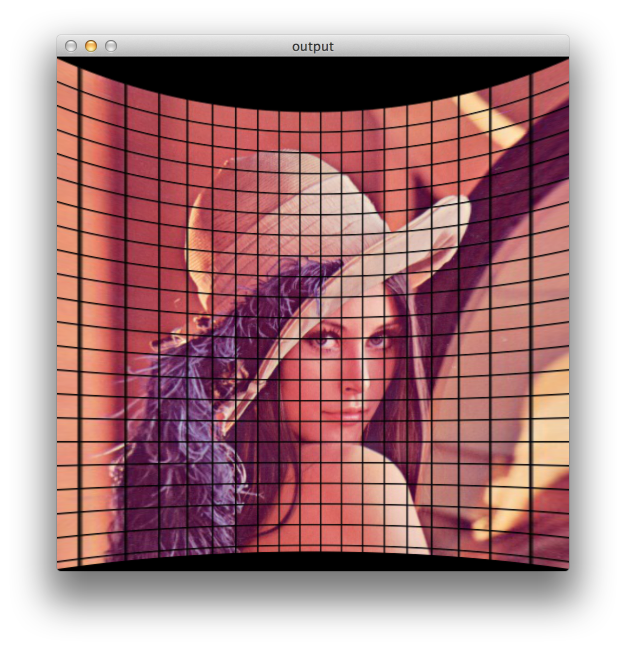
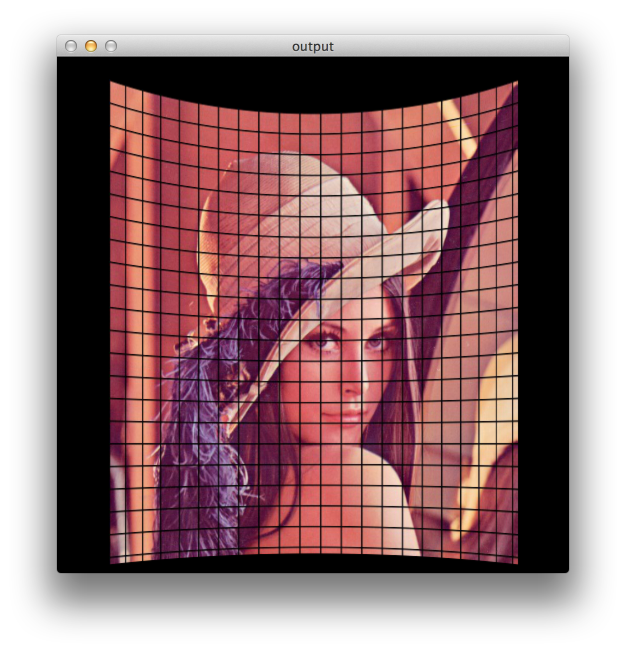
fix projection bug

diff --git a/warp.cpp b/warp.cpp
@@ -112,7 +112,9 @@ void project_cylinder(cv::Mat& dst, cv::Mat& src)
         // X-axis (columns)
         const float zb = r * (cos((half_width - (float)i) / r) - zfr);
         const float z_ratio = (zb + zf) / zf;
-        const float i_src = xf + z_ratio * r * sin(((float)i - half_width) / r);
+
+        const float i_src = r * asin(((float)i - xf) * z_ratio / r) + half_width;
+        //const float i_src = xf + z_ratio * r * sin(((float)i - half_width) / r);
         for (int j = 0; j < height; j++)
         {
             // Y-axis (rows)
@@ -131,7 +133,7 @@ int main() {
     src.convertTo(src, CV_8UC3); // convert to BGR
 
     // fix jaggies on the bottom by adding a 2-px black border
-    cv::copyMakeBorder(src, src, 0, 2, 0, 0, cv::BORDER_CONSTANT, cv::Scalar::all(0));
+    cv::copyMakeBorder(src, src, 2, 2, 0, 0, cv::BORDER_CONSTANT, cv::Scalar::all(0));
 
     // prepare black destination canvas
     cv::Mat dst = cv::Mat::zeros(src.rows, src.cols, src.type());
